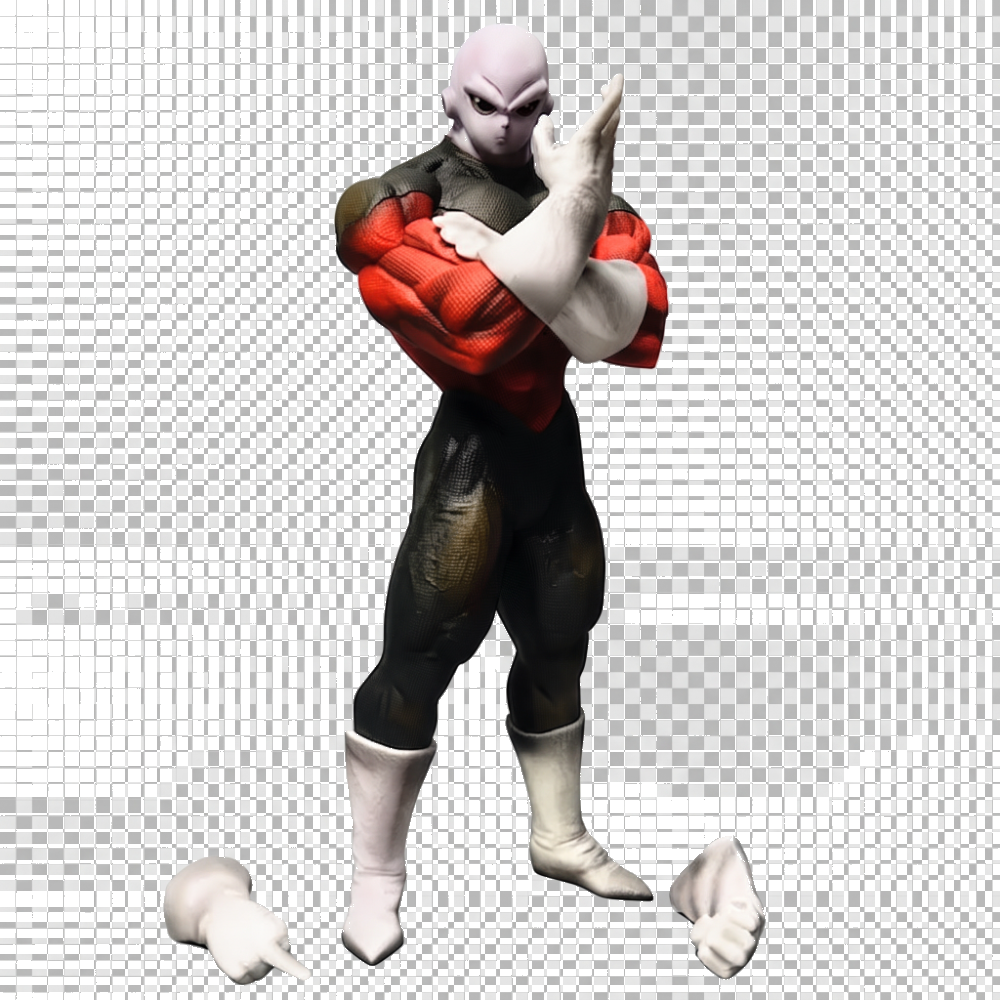
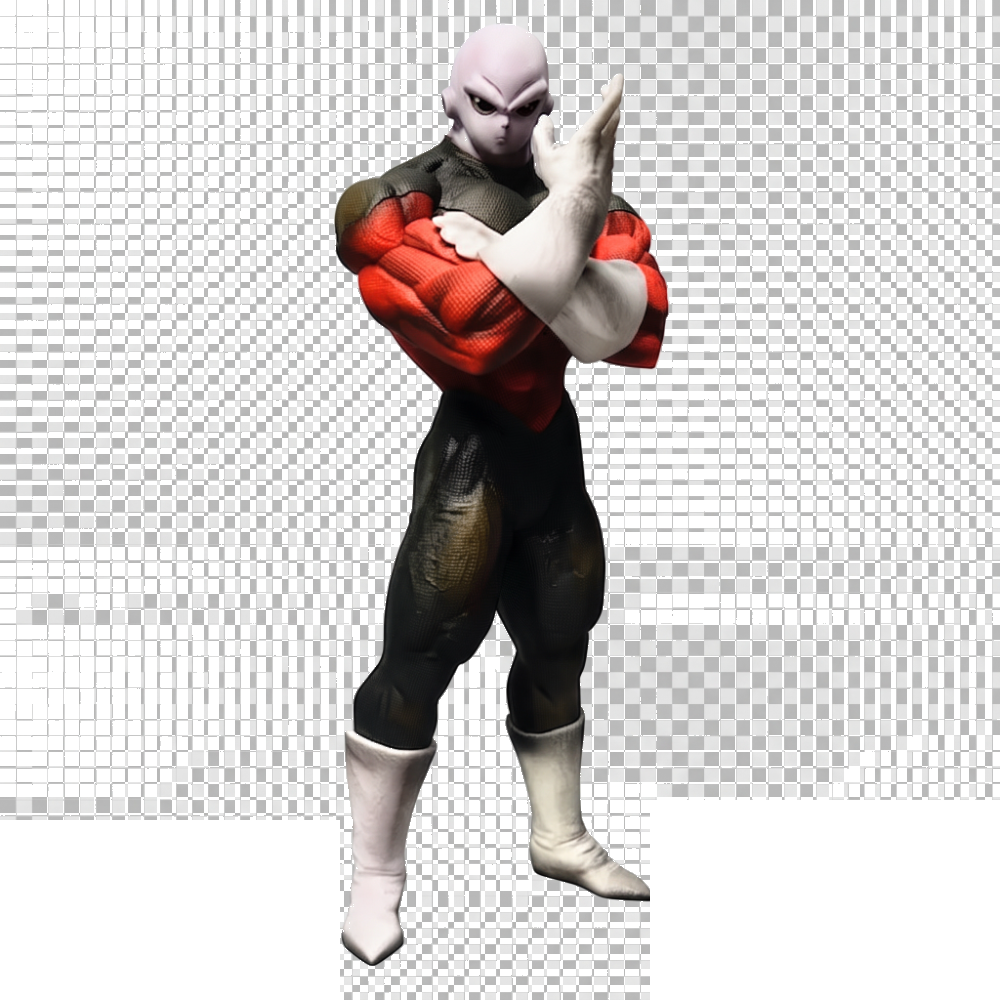
Volver al recorte de Jiren solo (sin las manitos sueltas)
Se vuelve a usar la figura recortada (sin fondo) en la seccion
destacada en vez de la foto de escena completa, y se le sacan
los dos punios sueltos que quedaban tirados en el piso junto a
las botas.

Changed region(s): [[0.651, 0.806, 1.0, 1.0], [0.0, 0.806, 0.341, 1.0]]

diff --git a/src/index.css b/src/index.css
@@ -213,7 +213,7 @@ section[id] { scroll-margin-top: 90px; }
 .spotlight-grid { display: grid; grid-template-columns: 1fr 1.02fr; gap: clamp(34px, 8vw, 120px); align-items: center; }
 .spotlight-art { background: #d3bdad; min-height: 510px; position: relative; overflow: hidden; display: grid; place-items: center; }
 .spotlight-art::before { content: 'LIMITED'; position: absolute; top: 24px; right: 20px; font: 10px var(--app-font-mono); letter-spacing: .16em; color: hsl(var(--primary)); writing-mode: vertical-rl; }
-.spotlight-img { width: 100%; height: 100%; object-fit: cover; transition: transform .55s; }
+.spotlight-img { width: 100%; height: 100%; object-fit: cover; mix-blend-mode: multiply; transition: transform .55s; }
 .spotlight-art:hover .spotlight-img { transform: scale(1.04); }
 .spotlight-copy .eyebrow { color: hsl(var(--primary)); }
 .spotlight-copy h2 { font-family: var(--app-font-serif); font-size: clamp(43px, 5vw, 70px); line-height: .94; letter-spacing: -.06em; margin: 20px 0; }

diff --git a/src/App.tsx b/src/App.tsx
@@ -263,7 +263,7 @@ function Home() {
 
         <section className="section spotlight">
           <div className="page-shell spotlight-grid">
-            <div className="spotlight-art"><img className="spotlight-img" src={asset('/jiren-torneo-poder.jpg')} alt="Figura de Jiren en el Torneo del Poder" data-testid="img-spotlight-figure" /></div>
+            <div className="spotlight-art"><img className="spotlight-img" src={asset('/jiren-poder-total.png')} alt="Figura de Jiren a máxima potencia" data-testid="img-spotlight-figure" /></div>
             <div className="spotlight-copy">
               <div className="eyebrow">Pieza destacada / Dragon Ball Super</div>
               <h2>Fuerza<br />bruta<br /><span style={{ color: 'hsl(var(--primary))' }}>pura.</span></h2>
